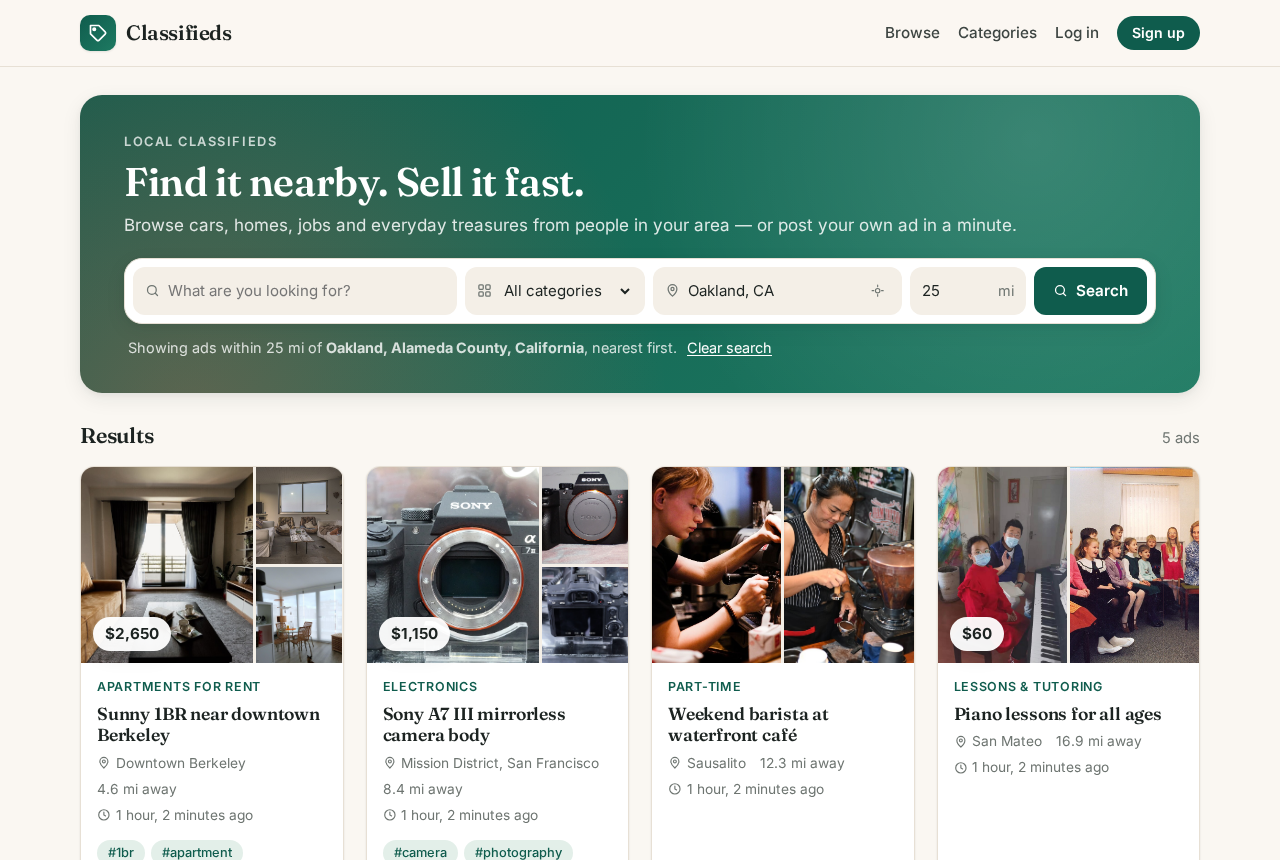
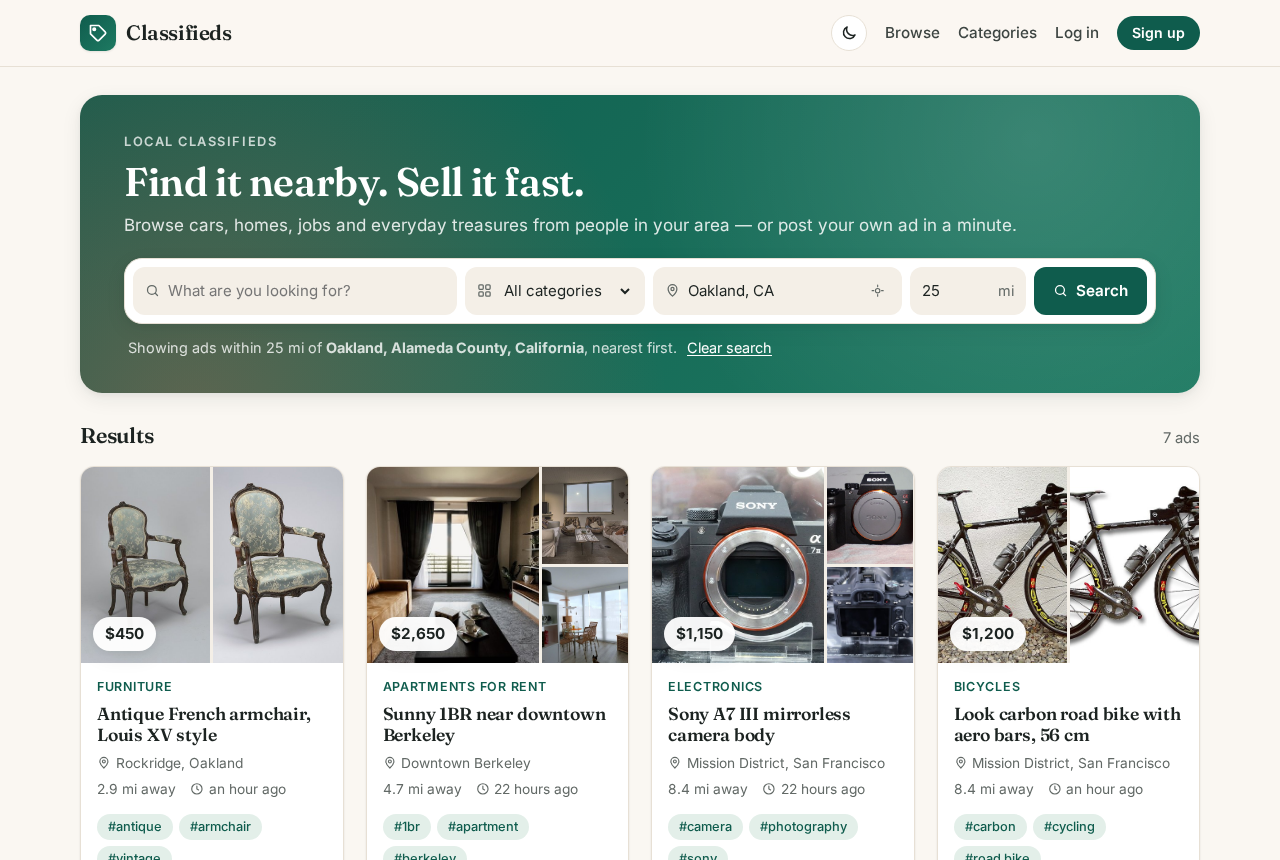
Update README screenshots and add messaging and dark-theme shots
Retakes the home search, ad page, categories, posting and phone
screenshots from the current site (theme switch, message-the-seller
box, footer links), and adds the messages inbox, a conversation with
read receipts, and the dark theme. Only ads with freely licensed photos
appear; the credits list every photo shown in each screenshot.

Changed region(s): [[0.0625, 0.5442, 0.9375, 1.0]]

diff --git a/docs/screenshots/CREDITS.md b/docs/screenshots/CREDITS.md
@@ -1,30 +1,37 @@
 # Screenshot credits
 
-The screenshots in this folder show demo listings whose photos come from
+The screenshots in this folder show listings whose photos come from
 [Wikimedia Commons](https://commons.wikimedia.org/). Each photo stays under its own
 licence, listed below; the rest of each screenshot shows this project's own UI.
+The people in the messages screenshots are test accounts.
 
 ## Photos shown
 
-**Sunny 1BR near downtown Berkeley** (`home-search.png`, `mobile-search.png`)
-- [Modern living room with stylish furniture and a view of the outdoors in a cozy apartment setting](https://commons.wikimedia.org/wiki/File:Modern_living_room_with_stylish_furniture_and_a_view_of_the_outdoors_in_a_cozy_apartment_setting.jpg), CC BY 2.0
-- [Living room in apartment of Condomínio do Edifício Zaher, Le Blond, Rio de Janeiro, Brazil](https://commons.wikimedia.org/wiki/File:Living_room_in_apartment_of_Condom%C3%ADnio_do_Edif%C3%ADcio_Zaher,_Le_Blond,_Rio_de_Janeiro,_Brazil.jpg), CC0
-- [The living room that needs houseplants](https://commons.wikimedia.org/wiki/File:The_living_room_that_needs_houseplants.jpg), CC0
+**Antique French armchair, Louis XV style** (`home-search.png`, `ad-detail.png`, `dark-theme.png`, `mobile-search.png`)
+- [Armchair (France), mid-18th century (CH 18312587)](https://commons.wikimedia.org/wiki/File:Armchair_(France),_mid-18th_century_(CH_18312587).jpg), Cooper Hewitt, Smithsonian Design Museum, public domain
+- [Armchair (France), mid-18th century (CH 18312587-2)](https://commons.wikimedia.org/wiki/File:Armchair_(France),_mid-18th_century_(CH_18312587-2).jpg), Cooper Hewitt, Smithsonian Design Museum, public domain
 
-**Sony A7 III mirrorless camera body** (`home-search.png`, `ad-detail.png`)
-- [Sony Alpha7 III 20 apr 2018f](https://commons.wikimedia.org/wiki/File:Sony_Alpha7_III_20_apr_2018f.jpg), CC BY-SA 4.0
-- [Sony A 7 iii full frame mirrorless camera](https://commons.wikimedia.org/wiki/File:Sony_A_7_iii_full_frame_mirrorless_camera.jpg), CC BY 4.0
-- [Sony Alpha7 III 20 apr 2018d](https://commons.wikimedia.org/wiki/File:Sony_Alpha7_III_20_apr_2018d.jpg), CC BY-SA 4.0
+**Look carbon road bike with aero bars** (`home-search.png`, `dark-theme.png`, `messages-inbox.png`)
+- [Rennrad Racing Bicycle.JPG](https://commons.wikimedia.org/wiki/File:Rennrad_Racing_Bicycle.JPG), GS, CC BY-SA 3.0
+- [Rennrad Racing Bicycle noBG.jpg](https://commons.wikimedia.org/wiki/File:Rennrad_Racing_Bicycle_noBG.jpg), GS, CC BY-SA 4.0
 
-**Weekend barista at waterfront café** (`home-search.png`)
-- [Girl Making Espresso](https://commons.wikimedia.org/wiki/File:Girl_Making_Espresso.jpg), CC BY 2.0
-- [A barista carefully tamping espresso grounds at a busy street-side coffee stall](https://commons.wikimedia.org/wiki/File:DSC_9564_A_barista_carefully_tamping_espresso_grounds_at_a_busy_street-side_coffee_stall_preparing_fresh_coffee_for_customers.jpg), CC BY-SA 4.0
+**FeelFree Lure fishing kayak** (`dark-theme.png`, `messages-inbox.png`)
+- [Fishing kayak FeelFree Lure.jpg](https://commons.wikimedia.org/wiki/File:Fishing_kayak_FeelFree_Lure.jpg), LukaszKatlewa, CC BY-SA 4.0
+- [Fishing kayak FeelFree Lure (2).jpg](https://commons.wikimedia.org/wiki/File:Fishing_kayak_FeelFree_Lure_(2).jpg), LukaszKatlewa, CC BY-SA 4.0
 
-**Piano lessons for all ages** (`home-search.png`)
-- [Picture of piano lesson still under Covid-19 recovery time](https://commons.wikimedia.org/wiki/File:Picture_of_piano_lesson_still_under_Covid-19_recovery_time.jpg), CC BY-SA 4.0
-- [Guna Goluba mūzika](https://commons.wikimedia.org/wiki/File:Guna_Goluba_m%C5%ABzika.jpg), CC BY-SA 4.0
+**Sunny 1BR near downtown Berkeley** (`home-search.png`)
+- [Modern living room with stylish furniture and a view of the outdoors in a cozy apartment setting](https://commons.wikimedia.org/wiki/File:Modern_living_room_with_stylish_furniture_and_a_view_of_the_outdoors_in_a_cozy_apartment_setting.jpg), Shixart1985, CC BY 2.0
+- [Living room in apartment of Condomínio do Edifício Zaher, Le Blond, Rio de Janeiro, Brazil](https://commons.wikimedia.org/wiki/File:Living_room_in_apartment_of_Condom%C3%ADnio_do_Edif%C3%ADcio_Zaher,_Le_Blond,_Rio_de_Janeiro,_Brazil.jpg), Wilfredor, CC0
+- [The living room that needs houseplants](https://commons.wikimedia.org/wiki/File:The_living_room_that_needs_houseplants.jpg), Lo (Flickr), CC0
 
-Authors are credited on each linked file page.
+**Sony A7 III mirrorless camera body** (`home-search.png`)
+- [Sony Alpha7 III 20 apr 2018f](https://commons.wikimedia.org/wiki/File:Sony_Alpha7_III_20_apr_2018f.jpg), 昼落ち, CC BY-SA 4.0
+- [Sony A 7 iii full frame mirrorless camera](https://commons.wikimedia.org/wiki/File:Sony_A_7_iii_full_frame_mirrorless_camera.jpg), Amitabha Gupta, CC BY 4.0
+- [Sony Alpha7 III 20 apr 2018d](https://commons.wikimedia.org/wiki/File:Sony_Alpha7_III_20_apr_2018d.jpg), 昼落ち, CC BY-SA 4.0
+
+**Found: orange tabby cat** (`dark-theme.png`)
+- [Orange tabby cat sitting on fallen leaves-Hisashi-01A](https://commons.wikimedia.org/wiki/File:Orange_tabby_cat_sitting_on_fallen_leaves-Hisashi-01A.jpg), Hisashi, CC BY-SA 2.0
+- [Orange tabby cat sitting on fallen leaves-Hisashi-01](https://commons.wikimedia.org/wiki/File:Orange_tabby_cat_sitting_on_fallen_leaves-Hisashi-01.jpg), Hisashi, CC BY-SA 2.0
 
 ## Maps
 

diff --git a/README.md b/README.md
@@ -24,19 +24,29 @@ Maps use [Leaflet](https://leafletjs.com/) with OpenStreetMap tiles.
 
 ![Home page with a search for ads within 25 miles of Oakland, CA](docs/screenshots/home-search.png)
 
-**Ad page** with a photo grid (click to open the lightbox) and a map of the location
+**Ad page** with a photo grid (click to open the viewer), a map, and a box to message the seller
 
-![Ad page for a Sony A7 III camera with three photos and a map of the Mission District](docs/screenshots/ad-detail.png)
+![Ad page for an antique French armchair with two photos and a map of Rockridge, Oakland](docs/screenshots/ad-detail.png)
+
+**Messages between buyers and sellers**: an inbox with unread counts, and a private conversation per ad with read receipts
+
+![Messages inbox with conversations about a kayak and a road bike](docs/screenshots/messages-inbox.png)
+
+![Conversation about a road bike, with the last message marked Seen](docs/screenshots/messages-thread.png)
+
+**Light and dark themes**: the switch in the header remembers your choice
+
+![Home page in the dark theme](docs/screenshots/dark-theme.png)
 
 | Browse by category | Posting an ad: drop a pin on the map |
 |---|---|
-| ![Categories page with six categories and their subcategories](docs/screenshots/categories.png) | ![Location step of the post-an-ad form with a pin in Palo Alto](docs/screenshots/post-ad-location.png) |
+| ![Categories page with six categories and their subcategories](docs/screenshots/categories.png) | ![Location step of the post-an-ad form with a pin in Rockridge, Oakland](docs/screenshots/post-ad-location.png) |
 
 **On a phone**
 
 <img src="docs/screenshots/mobile-search.png" alt="Home page search on a phone" width="300">
 
-Demo listing photos are from Wikimedia Commons under their own licences, and maps are © OpenStreetMap contributors. See [docs/screenshots/CREDITS.md](docs/screenshots/CREDITS.md).
+Listing photos are from Wikimedia Commons under their own licences, and maps are © OpenStreetMap contributors. See [docs/screenshots/CREDITS.md](docs/screenshots/CREDITS.md).
 
 ## Getting started
 
